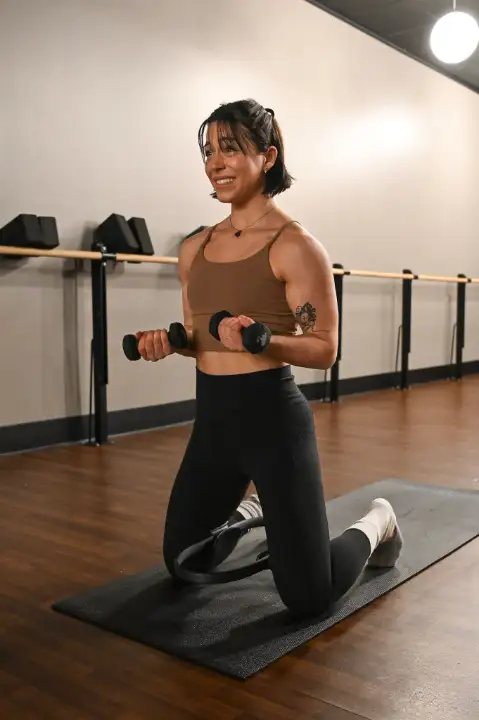
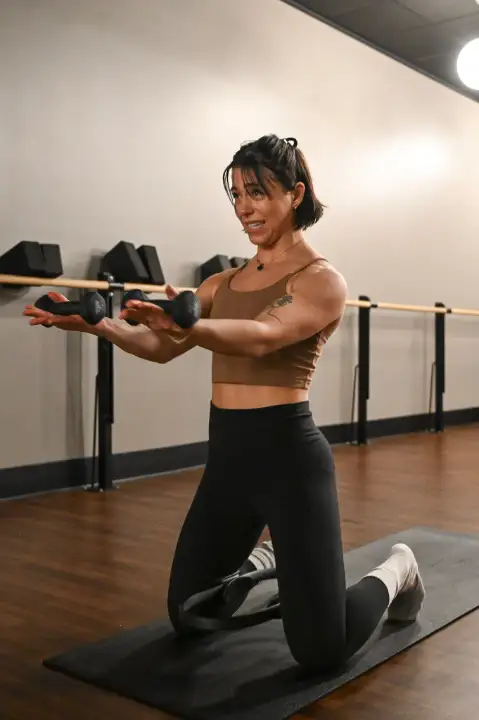
Bring back the Beach to Beacon photo and use a smiling Pilates shot in the Instagram row
Claude-Session: https://claude.ai/code/session_01Q463UtAdGB1yJWTe3w4Wz1

diff --git a/index.html b/index.html
@@ -357,9 +357,9 @@ footer.site ul{list-style:none;padding:0;margin:0;display:grid;gap:.4rem}
         <div class="feed-head"><h2>On Instagram</h2><a href="https://www.instagram.com/_izzyinmotion_/" target="_blank" rel="noopener">@_izzyinmotion_ →</a></div>
         <div class="ig-grid">
           <a href="https://www.instagram.com/_izzyinmotion_/p/DcoiU3dnMkz/" target="_blank" rel="noopener"><img src="img/bodytone.webp" alt="Izzy smiling in the squat racks" loading="lazy"></a>
-          <a href="https://www.instagram.com/_izzyinmotion_/p/DPhGx_6DgAE/" target="_blank" rel="noopener"><img src="img/marathon-finish.webp" alt="Maine Marathon" loading="lazy"></a>
+          <a href="https://www.instagram.com/_izzyinmotion_/" target="_blank" rel="noopener"><img src="img/b2b10k.webp" alt="Izzy cheering mid-race at the Beach to Beacon 10K" loading="lazy"></a>
           <a href="https://www.instagram.com/_izzyinmotion_/p/DcoiU3dnMkz/" target="_blank" rel="noopener"><img src="img/chair.webp" alt="Izzy in chair pose in the yoga studio" loading="lazy" style="object-position:50% 15%"></a>
-          <a href="https://www.instagram.com/_izzyinmotion_/" target="_blank" rel="noopener"><img src="img/bodytone2.webp" alt="Izzy smiling, kneeling with light dumbbells in the studio" loading="lazy" style="object-position:50% 20%"></a>
+          <a href="https://www.instagram.com/_izzyinmotion_/" target="_blank" rel="noopener"><img src="img/bodytone2.webp?v=2" alt="Izzy smiling, kneeling with light dumbbells in the studio" loading="lazy" style="object-position:50% 25%"></a>
         </div>
       </section>
 
